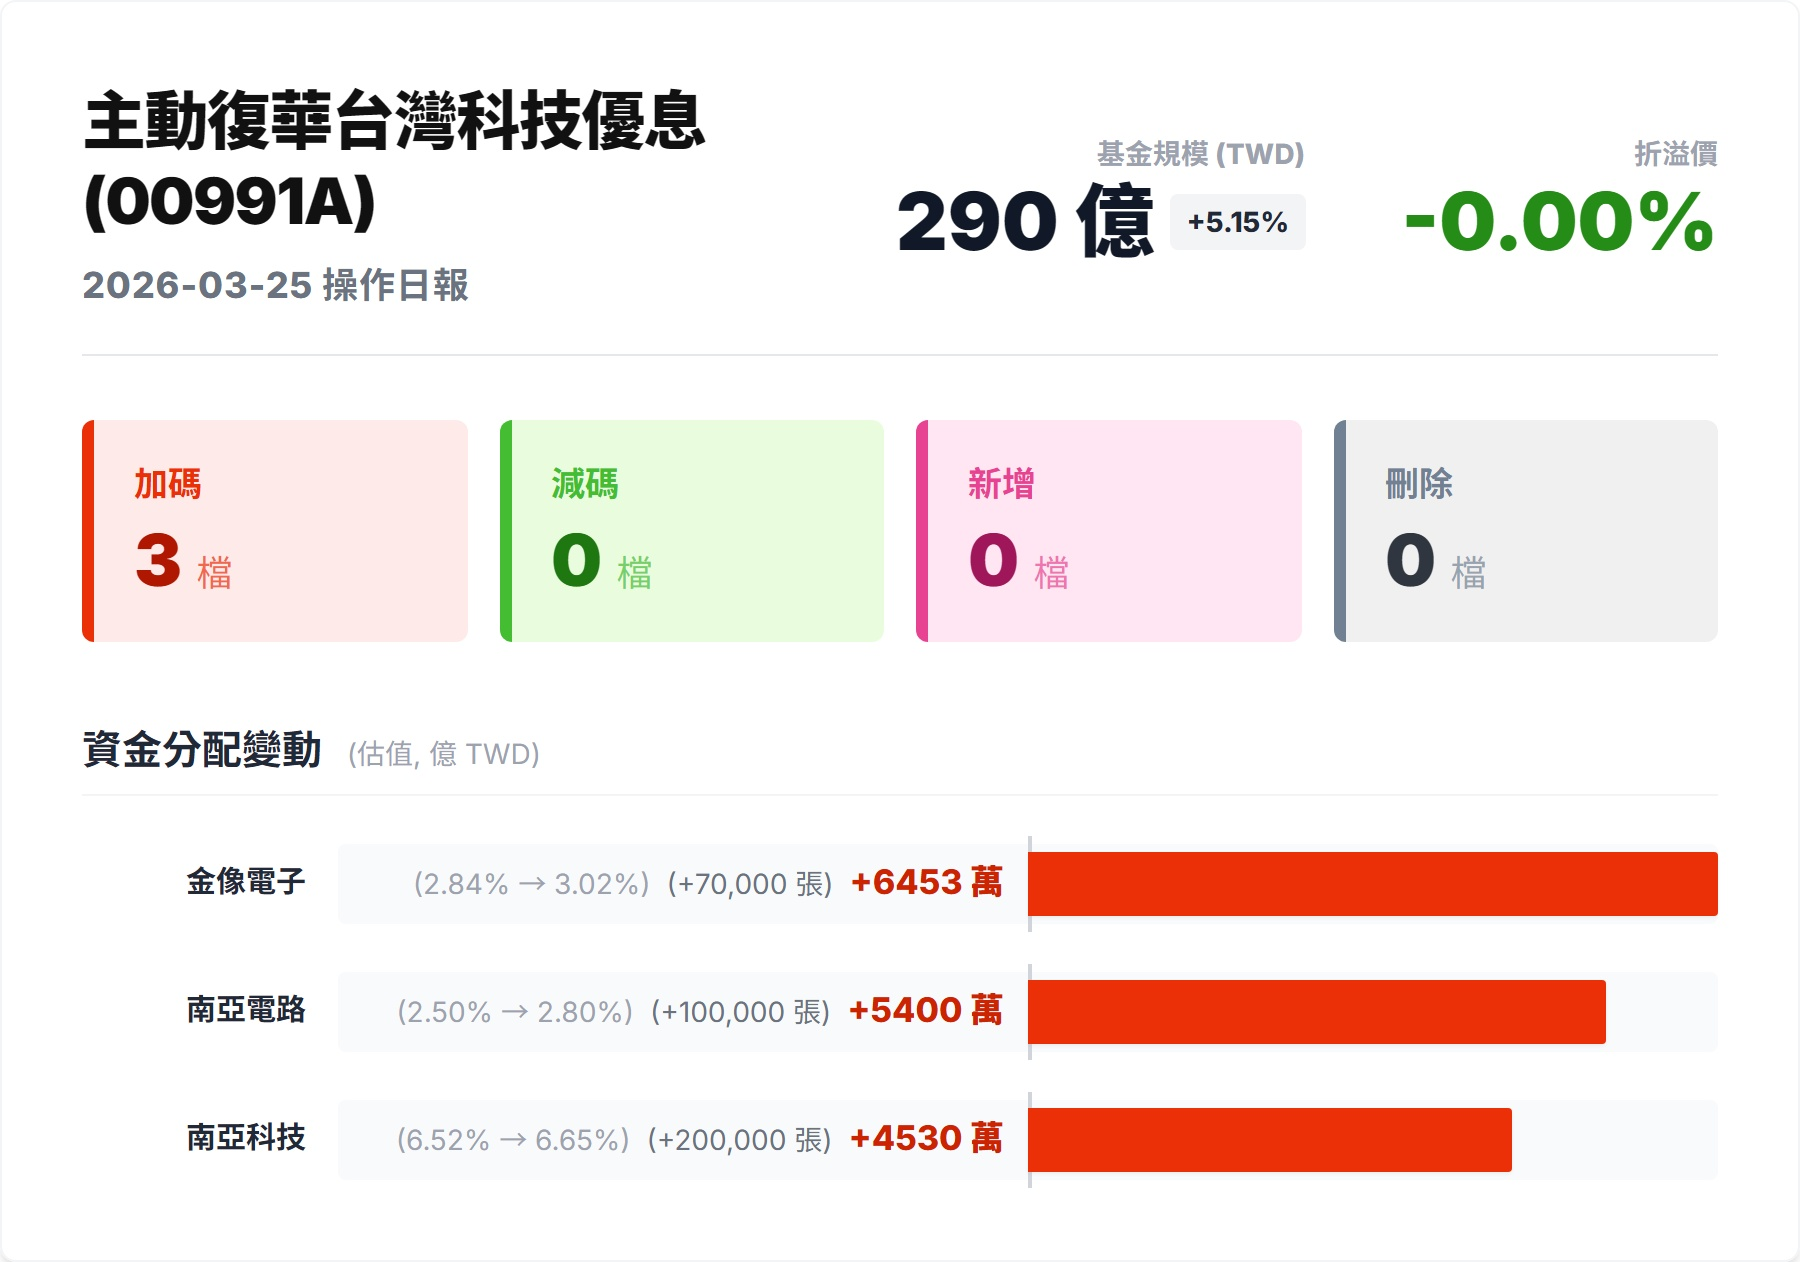
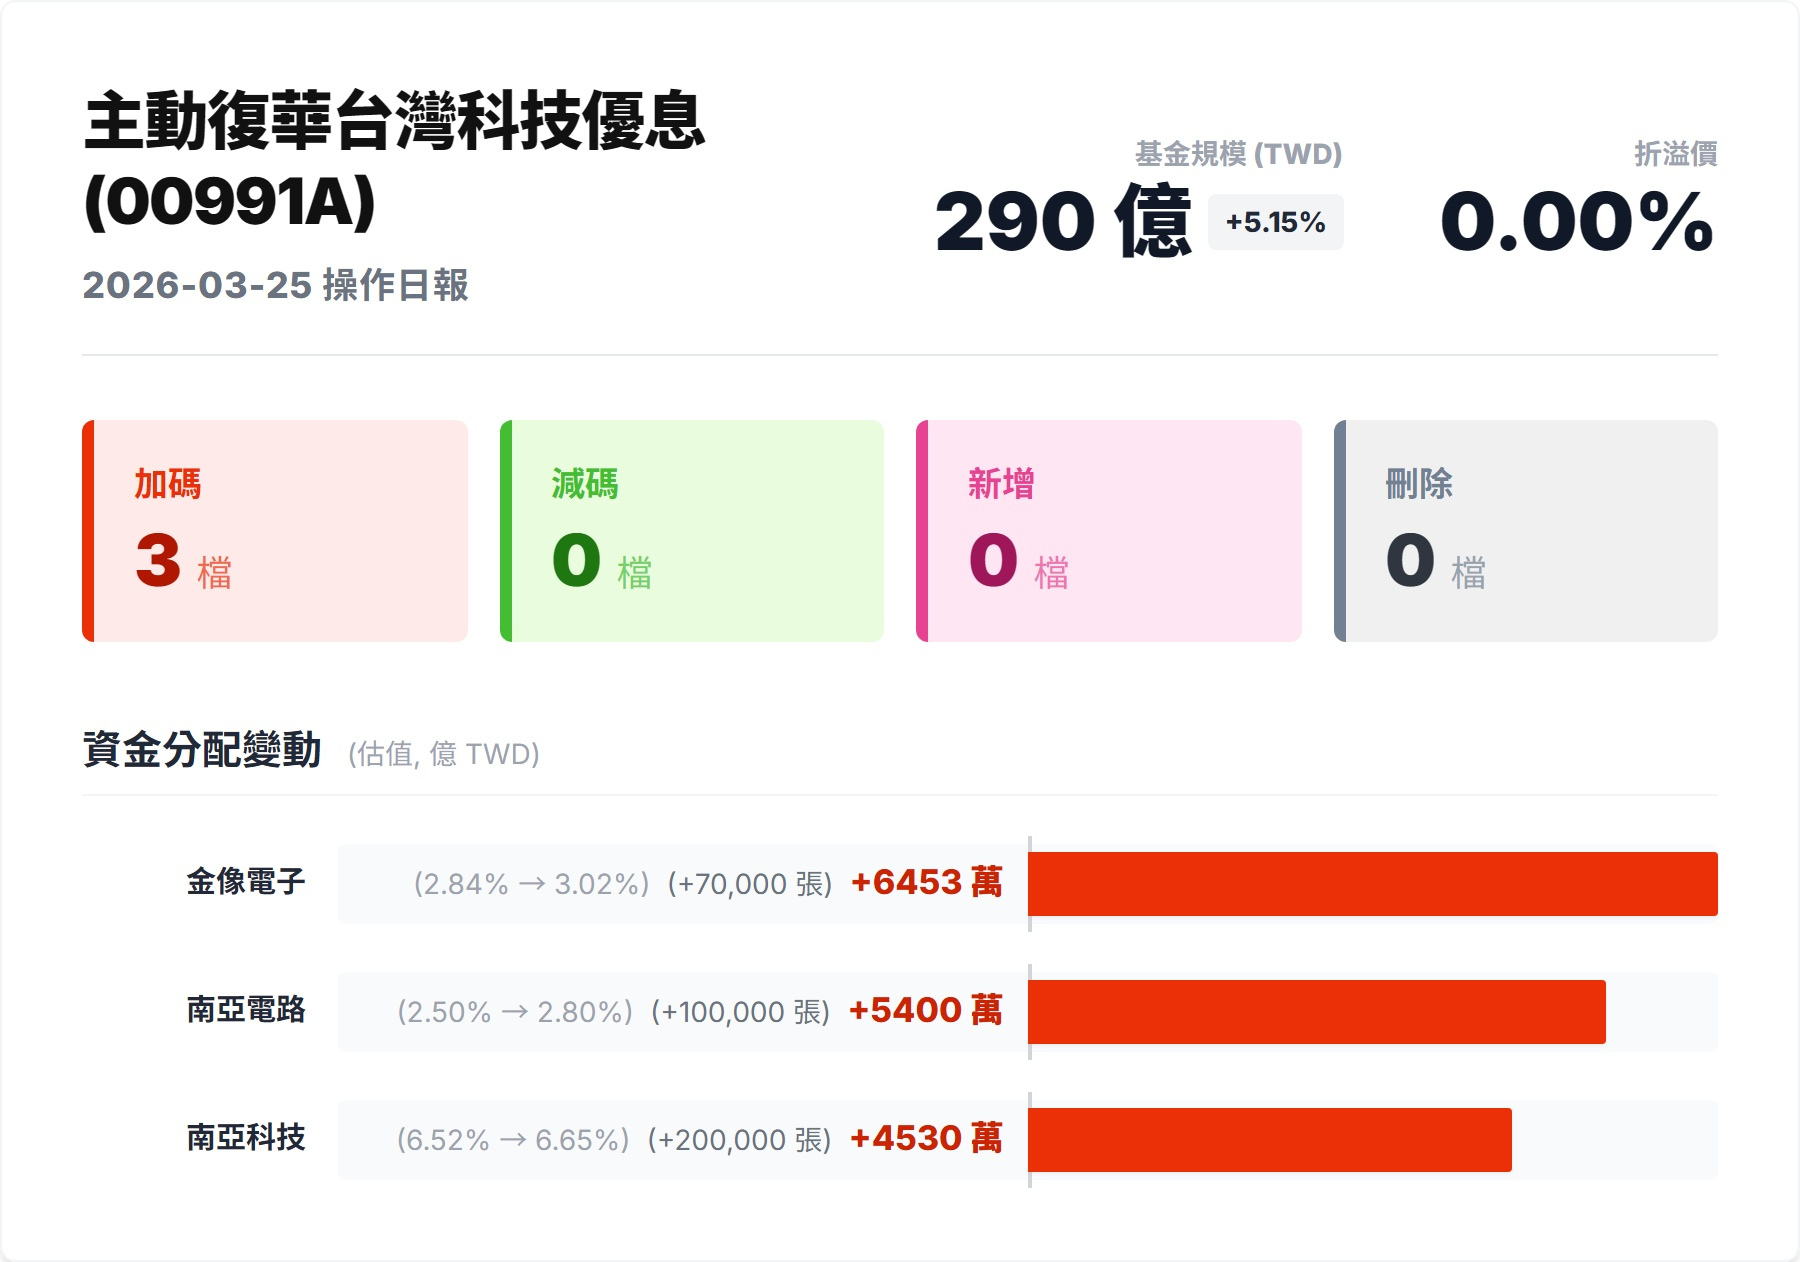
Fix premium percentage near-zero edge case formatting

Changed region(s): [[0.4978, 0.0927, 0.7467, 0.2163], [0.7778, 0.1545, 0.9644, 0.2163]]

diff --git a/scripts/generate_etf_summary.py b/scripts/generate_etf_summary.py
@@ -32,8 +32,13 @@ def render_html(title, data_curr, date_curr, data_prev, date_prev, out_html):
     prem_pct = ((price_c - nav_c)/nav_c*100) if nav_c else 0.0
     fs_str = f"{fs_c/100000000:.0f}&nbsp;億" # Use &nbsp; to prevent wrapping
     
-    prem_color_class = "text-[#CC2400]" if prem_pct > 0 else "text-[#258C18]" if prem_pct < 0 else "text-gray-900"
-    
+    if abs(prem_pct) < 0.005:
+        prem_str = "0.00%"
+        prem_color_class = "text-gray-900"
+    else:
+        prem_str = f"{prem_pct:+.2f}%"
+        prem_color_class = "text-[#CC2400]" if prem_pct > 0 else "text-[#258C18]"
+        
     ph_map = {h['id']: h for h in data_prev.get('holdings', [])}
     ch_map = {h['id']: h for h in data_curr.get('holdings', [])}
     
@@ -95,7 +100,7 @@ def render_html(title, data_curr, date_curr, data_prev, date_prev, out_html):
                 <div class="text-right">
                     <p class="text-sm font-bold text-gray-400 mb-1">折溢價</p>
                     <div class="flex items-center justify-end">
-                        <span class="text-[40px] leading-none font-black whitespace-nowrap {prem_color_class}">{prem_pct:+.2f}%</span>
+                        <span class="text-[40px] leading-none font-black whitespace-nowrap {prem_color_class}">{prem_str}</span>
                     </div>
                 </div>
             </div>
